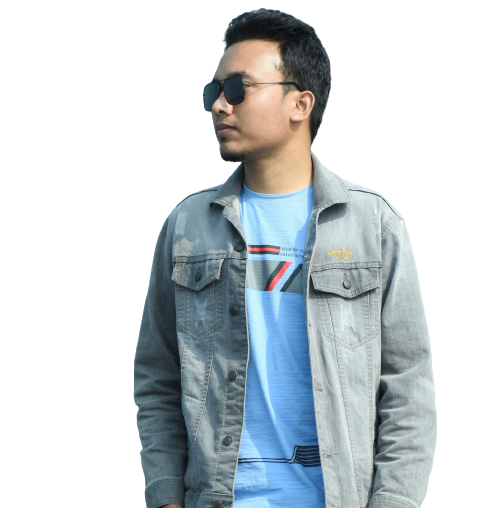
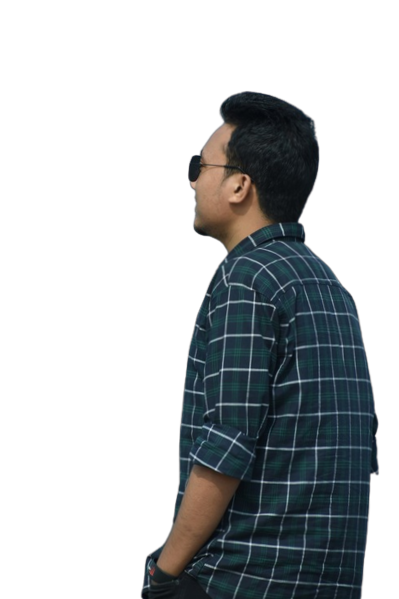
Information Updated

diff --git a/index.html b/index.html
@@ -16,9 +16,7 @@
         <nav>
             <h2 class="nav-title">Ak<span class="text-primary">i</span>b</h2>
             <ul>
-                <li>Portfolio</li>
-                <li>Blogs</li>
-                <li><button class="btn-primary">Hire Me</button></li>
+                <li><button class="btn-primary">About Me</button></li>
             </ul>
         </nav>
         <!-- header banner -->
@@ -26,26 +24,24 @@
             <div>
                 <h3 class="banner-sub-title">Hi, I am </h3>
                 <h1 class="banner-title">Akib Rahman</h1>
-                <p class="banner-description">details of me</p>
-                <button class="btn-primary">Download CV</button>
+                <p class="banner-description">This is a single page static website. This website is made only with html and css. If you want to build you online identity and want to build a website like this then you can contact with me.</p>
+                <button class="btn-primary">Contact Me</button>
             </div>
             <div>
-                <img src="images/hardy.png" alt="">
+                <img src="images/akib.png" alt="">
             </div>
         </div>
     </header>
     <main>
         <section class="about">
             <h3 class="section-title">About Me</h3>
-            <p class="section-description">Lorem, ipsum dolor sit amet consectetur adipisicing elit. Deleniti, autem,
-                laboriosam cumque beatae itaque nobis, doloremque aliquid blanditiis repudiandae atque corporis ut.
-                Cumque voluptas officia incidunt soluta eaque voluptatum reprehenderit perspiciatis? Tempora fuga
-                adipisci eaque accusantium pariatur fugiat dolores beatae, officia, dignissimos voluptates ut totam,
-                architecto sapiente magnam. Molestiae amet ducimus magni id magnam voluptatibus perspiciatis aperiam
-                ipsum consequuntur nostrum earum obcaecati velit, dolorum maiores. At doloremque eaque eligendi hic,
-                deserunt facere esse sequi quos vel, laudantium doloribus maxime deleniti molestiae. Voluptates animi ab
-                alias est impedit aperiam esse iusto mollitia. Earum quidem consequatur iure? Vero laborum omnis
-                officiis nesciunt?</p>
+            <p class="section-description">
+
+                I'm a front-end developer with expertise in HTML, CSS, CSS frameworks (Tailwind, Bootstrap), JavaScript,
+                and React. I'm passionate about creating visually appealing and user-friendly web experiences while
+                staying up-to-date with the latest trends in web development. Let's collaborate and build something
+                great!
+            </p>
 
 
             <div class="about-info-container">
@@ -75,25 +71,23 @@
                 <div class="skill">
                     <img src="./images/icons/js.png" alt="">
                     <p class="skill-title">Vanilla JS</p>
-                    <p class="skill-description">Lorem ipsum dolor sit amet consectetur, adipisicing elit. Repellat,
-                        neque.</p>
+                    <p class="skill-description">I can build you a website using js.</p>
                 </div>
                 <div class="skill">
                     <img src="./images/icons/nodejs.png" alt="">
                     <p class="skill-title">Node JS</p>
-                    <p class="skill-description">Lorem ipsum dolor sit amet consectetur adipisicing elit. Ab, itaque.
+                    <p class="skill-description">I have experience using Node Js.
                     </p>
                 </div>
                 <div class="skill">
-                    <img src="./images/icons/mongo.png" alt="">
+                    <img class="imgs" src="./images/icons/mongo.png" alt="">
                     <p class="skill-title">MongoDB</p>
-                    <p class="skill-description">Lorem ipsum dolor sit amet, consectetur adipisicing elit. Alias,
-                        fugiat?</p>
+                    <p class="skill-description">If you have interest about using MongoDB then i can also help you.</p>
                 </div>
                 <div class="skill">
                     <img src="./images/icons/react.png" alt="">
                     <p class="skill-title">React</p>
-                    <p class="skill-description">Lorem, ipsum dolor sit amet consectetur adipisicing elit. Id, quia!</p>
+                    <p class="skill-description">I can build you a website using react.</p>
                 </div>
             </div>
         </section>
@@ -101,68 +95,46 @@
 
         <!-- Resume Section  -->
         <section class="resume section-title">
-
             <h3 class="section-title">A Summary of my Resume</h3>
-
             <div class="resume-content">
-                <div>
+                <div class="error">
                     <h3 class="resume-title">My Education</h3>
                     <div class="resume-item">
-                        <h4 class="title">Master in Computer Engineering</h4>
-                        <h5 class="sub-title">Harvard University / 2015 - 2017</h5>
-                        <p class="description">List skill/technologies here. You can change the icon above
-                            to any of the 1500+ FontAwesome 5 free icons available. Aenean commodo ligula eget dolor.
+                        <h4 class="title">BSc in Computer Science and Engineering</h4>
+                        <h5 class="sub-title">American International University Bangladesh / 2019 - 2023</h5>
+                        <p class="description"> I my university life i have gained knowledge about different types of
+                            mixed knowledge.
                         </p>
                     </div>
                     <hr>
                     <div class="resume-item">
-                        <h4 class="title">Master in Computer Engineering</h4>
-                        <h5 class="sub-title">Harvard University / 2015 - 2017</h5>
-                        <p class="description">List skill/technologies here. You can change the icon above
-                            to any of the 1500+ FontAwesome 5 free icons available. Aenean commodo ligula eget dolor.
-                        </p>
+                        <h4 class="title">HSC</h4>
+                        <h5 class="sub-title">Cantonment Public School and College, Saidpur / 2016 - 2018</h5>
+                        <p class="description"> It was a great time.
                     </div>
                     <hr>
-                    <div class="resume-item">
-                        <h4 class="title">Master in Computer Engineering</h4>
-                        <h5 class="sub-title">Harvard University / 2015 - 2017</h5>
-                        <p class="description">List skill/technologies here. You can change the icon above
-                            to any of the 1500+ FontAwesome 5 free icons available. Aenean commodo ligula eget dolor.
-                        </p>
-                    </div>
-                    
                 </div>
-                <div>
+                <div class="error">
                     <h3 class="resume-title">My Experience</h3>
 
                     <div class="resume-item">
-                        <h4 class="title">Master in Computer Engineering</h4>
-                        <h5 class="sub-title">Harvard University / 2015 - 2017</h5>
-                        <p class="description">List skill/technologies here. You can change the icon above
-                            to any of the 1500+ FontAwesome 5 free icons available. Aenean commodo ligula eget dolor.
+                        <h4 class="title">Web Development</h4>
+                        <h5 class="sub-title">Frontend Developer / 2022 - present</h5>
+                        <p class="description">I have build many projects in my journey. You can find those in my github
+                            profile.
                         </p>
                     </div>
                     <hr>
                     <div class="resume-item">
-                        <h4 class="title">Master in Computer Engineering</h4>
-                        <h5 class="sub-title">Harvard University / 2015 - 2017</h5>
-                        <p class="description">List skill/technologies here. You can change the icon above
-                            to any of the 1500+ FontAwesome 5 free icons available. Aenean commodo ligula eget dolor.
+                        <h4 class="title">Competitive Programmer</h4>
+                        <h5 class="sub-title">Codeforces, UVA / 2020 - 2021</h5>
+                        <p class="description">In my university life i had solved 300+ real life problems in many online
+                            judges.
                         </p>
                     </div>
                     <hr>
-                    <div class="resume-item">
-                        <h4 class="title">Master in Computer Engineering</h4>
-                        <h5 class="sub-title">Harvard University / 2015 - 2017</h5>
-                        <p class="description">List skill/technologies here. You can change the icon above
-                            to any of the 1500+ FontAwesome 5 free icons available. Aenean commodo ligula eget dolor.
-                        </p>
-                    </div>
-                    
+
                 </div>
-            </div>
-            <div class="resume-btn">
-                <button class="btn-primary">Download CV</button>
             </div>
 
         </section>
@@ -172,8 +144,8 @@
         <section class="contact">
             <div class="contact-item">
                 <h1 class="title">Let's Connect</h1>
-                <p class="description">Lorem ipsum dolor sit amet consectetur adipisicing elit. Rem nam vel quaerat voluptatem deleniti eius exercitationem nulla laborum aliquid corporis!</p>
-                
+                <p class="description">You can communicate with me through these social media platform.</p>
+
                 <a href="">
                     <img src="images/icons/facebook.png" alt="">
                 </a>

diff --git a/styles/portfolio.css b/styles/portfolio.css
@@ -55,7 +55,7 @@ nav li {
     display: flex;
     align-items: center;
     justify-content: space-between;
-    margin: 0 200px;
+    margin: 0 150px;
 }
 
 .banner-title {
@@ -91,7 +91,7 @@ main {
     margin-top: 130px;
     border-radius: 10px;
     background: #FFF8F3;
-    padding: 130px 150px;
+    padding: 100px 150px;
 }
 
 .section-title {
@@ -120,6 +120,7 @@ main {
 .about-info-container {
     display: flex;
     justify-content: space-around;
+    margin-top: 60px;
 }
 
 .about .info-title {
@@ -140,6 +141,9 @@ main {
 .what-i-do {
     margin-top: 130px;
 }
+.imgs{
+    text-align: center;
+}
 
 .skills-container {
     display: flex;
@@ -151,6 +155,8 @@ main {
     background: #FFF;
     box-shadow: 0px 6px 50px 0px rgba(0, 0, 0, 0.06);
     padding: 30px;
+    text-align: center;
+    width: 25%;
 }
 
 .skill-title {
@@ -191,6 +197,11 @@ main {
 .resume-content {
     display: flex;
     gap: 24px;
+    margin: 1px solid red;
+}
+.error{
+    margin: 1px solid red;
+    width: 50%;
 }
 
 .resume-title {
